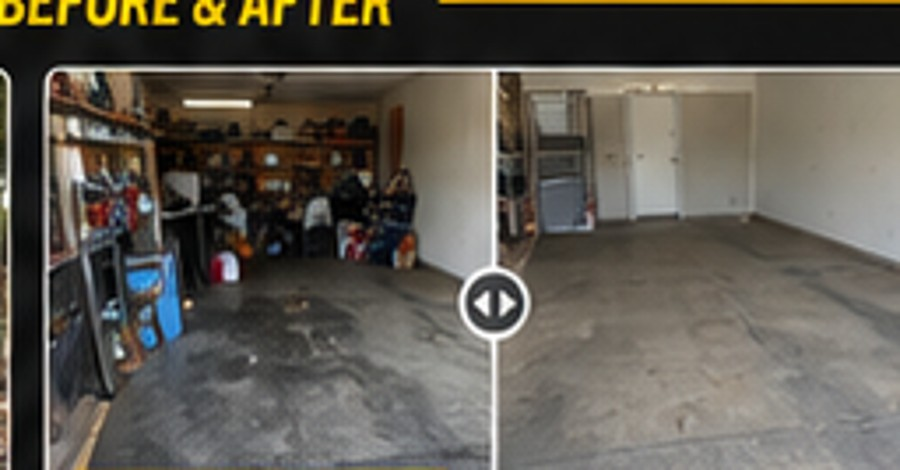
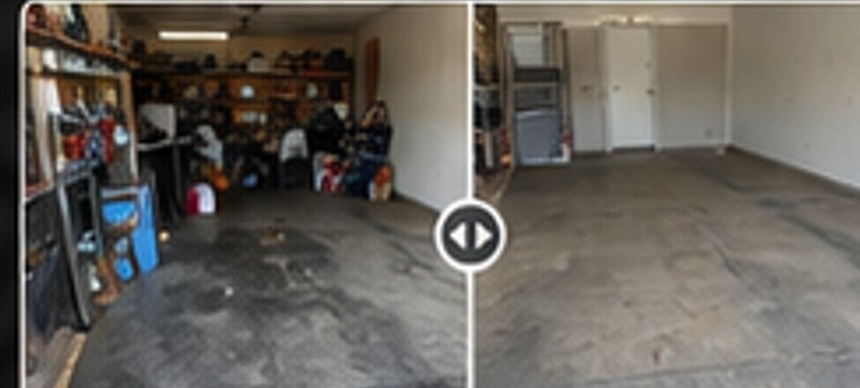
Crop gallery images, remove the container width cap, fix hero overflow
The gallery-tree and gallery-property source photos had a "GALLERY" /
"BEFORE & AFTER" heading and slider-widget chrome baked into their top
edge from how they were originally captured (screenshots of a website
widget), which visually doubled against the page's own gallery heading.
Cropped all four gallery images to a consistent frame that excludes
that chrome.

Removed the --container-max width cap so every section fills the full
viewport width edge-to-edge (previously capped at 1680px), matching
the site-wide look requested.

Fixed a real layout bug this surfaced: the hero section combines
`aspect-ratio` with `min-height` on a flex container without an
explicit width, and at tablet widths (~768-1023px) the browser was
resolving the box's width *from* the min-height via the aspect ratio
(680px x 1800/535 = 2288px) instead of stretching to fill the
viewport, causing ~1400px of horizontal overflow. Added an explicit
w-full to force the intended sizing. Verified no overflow at 2392px,
900px, and 390px widths.

diff --git a/src/components/site-footer.tsx b/src/components/site-footer.tsx
@@ -3,7 +3,7 @@ import { Camera, Phone } from "lucide-react";
 export function SiteFooter() {
   return (
     <footer className="border-t border-(--color-accent)/25 bg-[#050505] py-[25px] text-white">
-      <div className="mx-auto grid w-[min(calc(100%-40px),var(--container-max))] grid-cols-1 items-center gap-[18px] sm:grid-cols-2 lg:grid-cols-[1.05fr_1.25fr_0.9fr_auto] lg:gap-[35px]">
+      <div className="mx-auto grid w-[calc(100%-40px)] grid-cols-1 items-center gap-[18px] sm:grid-cols-2 lg:grid-cols-[1.05fr_1.25fr_0.9fr_auto] lg:gap-[35px]">
         <div>
           <div className="inline-flex items-baseline gap-1.5 font-display text-[1.7rem] font-extrabold leading-[0.9]">
             <span className="text-white">Got</span>

diff --git a/src/components/contact-section.tsx b/src/components/contact-section.tsx
@@ -4,7 +4,7 @@ import { EstimateForm } from "@/components/estimate-form";
 export function ContactSection() {
   return (
     <section id="contact" className="bg-[#f6f6f4] py-[42px]">
-      <div className="mx-auto grid w-[min(calc(100%-40px),var(--container-max))] grid-cols-1 items-center gap-[50px] md:grid-cols-[0.85fr_1.15fr]">
+      <div className="mx-auto grid w-[calc(100%-40px)] grid-cols-1 items-center gap-[50px] md:grid-cols-[0.85fr_1.15fr]">
         <div className="relative border-b border-[#cfcfcf] pb-9 md:border-b-0 md:border-r md:pb-0 md:pr-9">
           <p className="mb-0 font-extrabold uppercase tracking-[0.03em] text-[#8d7400]">
             Fast, friendly local service

diff --git a/src/components/gallery-section.tsx b/src/components/gallery-section.tsx
@@ -25,7 +25,7 @@ export function GallerySection() {
       id="gallery"
       className="bg-[radial-gradient(circle_at_50%_100%,#292929_0%,#0d0d0d_58%)] py-9 pb-12 text-white"
     >
-      <div className="mx-auto w-[min(calc(100%-40px),var(--container-max))]">
+      <div className="mx-auto w-[calc(100%-40px)]">
         <div className="mb-[25px] grid grid-cols-[minmax(35px,1fr)_auto_minmax(35px,1fr)] items-center gap-4">
           <span className="h-0.5 bg-(--color-accent)" />
           <h2 className="text-center font-display text-[clamp(1.5rem,2.6vw,2.1rem)] font-extrabold uppercase leading-none text-white">

diff --git a/src/components/services-section.tsx b/src/components/services-section.tsx
@@ -52,7 +52,7 @@ export function ServicesSection() {
       id="services"
       className="bg-[radial-gradient(circle_at_50%_0%,#292929_0%,#101010_55%)] py-9 pb-12 text-white"
     >
-      <div className="mx-auto w-[min(calc(100%-40px),var(--container-max))]">
+      <div className="mx-auto w-[calc(100%-40px)]">
         <div className="mb-[25px] grid grid-cols-[minmax(35px,1fr)_auto_minmax(35px,1fr)] items-center gap-4">
           <span className="h-0.5 bg-(--color-accent)" />
           <h2 className="text-center font-display text-[clamp(1.5rem,2.6vw,2.1rem)] font-extrabold uppercase leading-none text-white">

diff --git a/src/components/process-areas-section.tsx b/src/components/process-areas-section.tsx
@@ -52,7 +52,7 @@ function SectionTitle({ children }: { children: React.ReactNode }) {
 export function ProcessAreasSection() {
   return (
     <section id="about" className="bg-(--color-paper) text-[#171717]">
-      <div className="mx-auto grid w-[min(calc(100%-40px),var(--container-max))] grid-cols-1 md:grid-cols-2">
+      <div className="mx-auto grid w-[calc(100%-40px)] grid-cols-1 md:grid-cols-2">
         <div className="border-b border-[#d3d3d3] py-9 pb-9 md:border-b-0 md:border-r md:py-[34px] md:pb-10">
           <SectionTitle>How It Works</SectionTitle>
 

diff --git a/src/components/site-header.tsx b/src/components/site-header.tsx
@@ -19,7 +19,7 @@ export function SiteHeader() {
 
   return (
     <header className="sticky top-0 z-50 min-h-[74px] border-b border-(--color-accent)/15 bg-black/96 backdrop-blur-md">
-      <div className="mx-auto flex min-h-[74px] w-[min(calc(100%-40px),var(--container-max))] items-center gap-[30px]">
+      <div className="mx-auto flex min-h-[74px] w-[calc(100%-40px)] items-center gap-[30px]">
         <a
           href="#home"
           aria-label="Got Junk home"

diff --git a/src/components/hero.tsx b/src/components/hero.tsx
@@ -12,7 +12,7 @@ export function Hero() {
   return (
     <section
       id="home"
-      className="relative flex aspect-[4/5] items-end overflow-hidden md:aspect-[1800/535] md:min-h-[680px] md:items-center"
+      className="relative flex w-full aspect-[4/5] items-end overflow-hidden md:aspect-[1800/535] md:min-h-[680px] md:items-center"
     >
       <Image
         src="/images/hero.jpg"

diff --git a/src/app/globals.css b/src/app/globals.css
@@ -11,7 +11,6 @@
   --color-gray: #b8b8b8;
   --color-border: rgba(255, 255, 255, 0.22);
   --shadow-card: 0 16px 38px rgba(0, 0, 0, 0.24);
-  --container-max: 1680px;
 }
 
 @theme inline {
